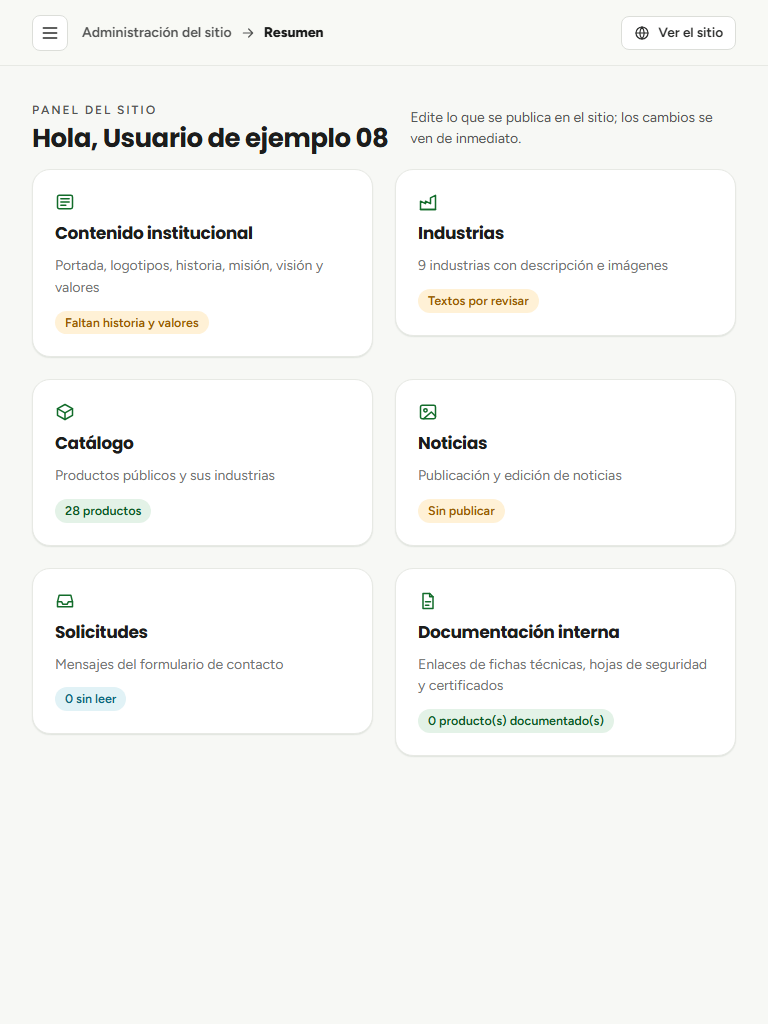
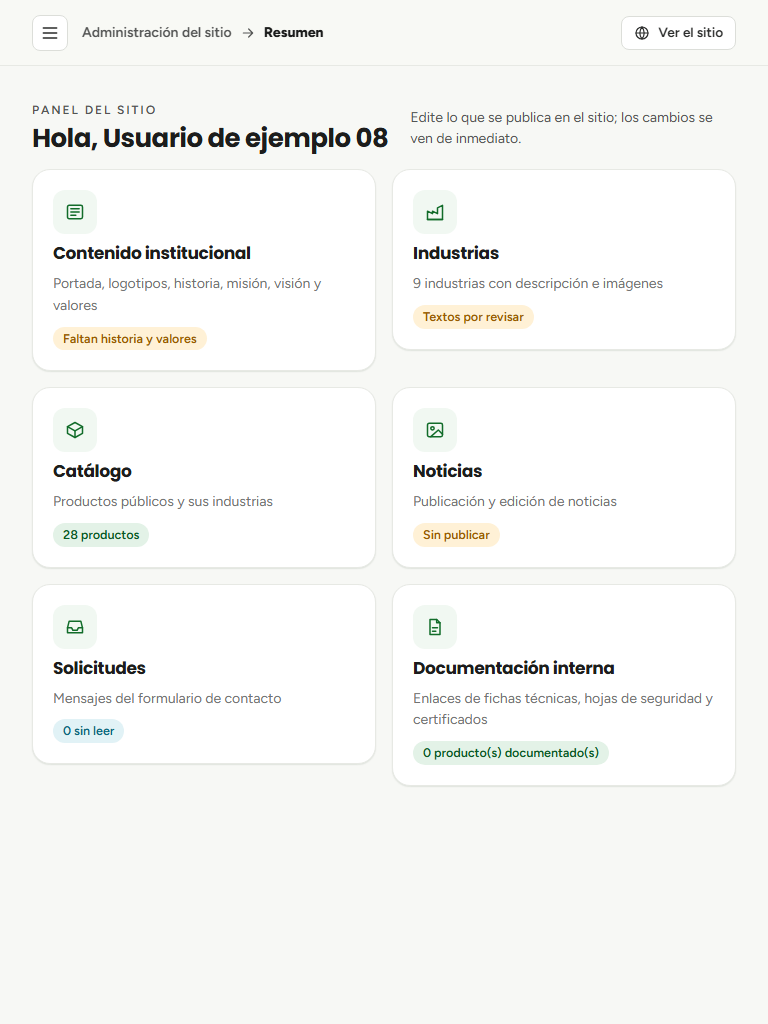
fix(panel): conservar estado publicado y aislar capturas (DM-04)

diff --git a/pruebas-e2e/panel/datos.ts b/pruebas-e2e/panel/datos.ts
@@ -1,0 +1,110 @@
+import { test as base } from "@playwright/test";
+import { Client } from "pg";
+import { unlink } from "node:fs/promises";
+import { join } from "node:path";
+
+try {
+  process.loadEnvFile();
+} catch {
+  /* La CI proporciona las variables. */
+}
+
+// Textos aprobados de specs/05 y de la semilla base; no dependen del estado previo del equipo.
+export const MISION =
+  "Ser el aliado estratégico para nuestros clientes y proveedores en la distribución de productos químicos, atendiendo la región CA-4, marcando la diferencia en servicio, con una completa gama de productos para brindar soluciones a las necesidades del mercado, apoyando a cumplir los objetivos de nuestros grupos de interés.";
+const VISION =
+  "Ser referentes y acercar soluciones en la distribución de productos químicos satisfaciendo las necesidades de los mercados atendidos, creando valor integral a nuestros grupos de interés a través del crecimiento y mejora continua, con una administración responsable y transparente enfocada en la solidez y el largo plazo.";
+const AREAS = ["portada", "mision", "vision", "historia"];
+
+/** Aísla únicamente el contenido institucional y siempre restaura las filas originales, incluso si falla la prueba. */
+async function conContenidoDePrueba(comprobar: () => Promise<void>) {
+  if (process.env.ALMACENAMIENTO && process.env.ALMACENAMIENTO !== "disco")
+    throw new Error("Las pruebas de panel requieren almacenamiento local de desarrollo.");
+  const conexion = new Client({ connectionString: process.env.DATABASE_URL });
+  await conexion.connect();
+  try {
+    // El mismo candado que las galerías de DM-02: los preparadores no se pisan entre procesos.
+    await conexion.query("SELECT pg_advisory_lock($1)", [2026101902]);
+    const configuracion = await conexion.query("SELECT * FROM configuracion_sitio");
+    const textos = await conexion.query("SELECT * FROM contenido_institucional");
+    const valores = await conexion.query("SELECT * FROM valor");
+    const imagenes = await conexion.query(
+      "SELECT * FROM imagen WHERE area = ANY($1) AND industria_id IS NULL AND producto_sitio_id IS NULL AND noticia_id IS NULL",
+      [AREAS],
+    );
+    try {
+      await conexion.query("BEGIN");
+      await conexion.query(
+        "DELETE FROM imagen WHERE area = ANY($1) AND industria_id IS NULL AND producto_sitio_id IS NULL AND noticia_id IS NULL",
+        [AREAS],
+      );
+      await conexion.query("DELETE FROM contenido_institucional");
+      await conexion.query(
+        "INSERT INTO contenido_institucional (seccion, texto) VALUES ('mision', $1), ('vision', $2), ('historia', '')",
+        [MISION, VISION],
+      );
+      await conexion.query(
+        "UPDATE configuracion_sitio SET logotipo_incovsa_url = NULL, logotipo_inquiserca_url = $1 WHERE id = 1",
+        ["/marca/inquiserca.webp"],
+      );
+      await conexion.query("UPDATE valor SET imagen_url = NULL");
+      await conexion.query("COMMIT");
+      await comprobar();
+    } finally {
+      // Las imágenes anteriores nunca se presentan al editor de prueba y por eso no se sustituyen ni se borran.
+      const nuevas = await conexion.query<{ url: string }>(
+        "SELECT url FROM imagen WHERE area = ANY($1) AND industria_id IS NULL AND producto_sitio_id IS NULL AND noticia_id IS NULL UNION SELECT imagen_url FROM valor WHERE imagen_url IS NOT NULL UNION SELECT logotipo_incovsa_url FROM configuracion_sitio WHERE logotipo_incovsa_url IS NOT NULL UNION SELECT logotipo_inquiserca_url FROM configuracion_sitio WHERE logotipo_inquiserca_url IS NOT NULL",
+        [AREAS],
+      );
+      await conexion.query("BEGIN");
+      try {
+        await conexion.query(
+          "DELETE FROM imagen WHERE area = ANY($1) AND industria_id IS NULL AND producto_sitio_id IS NULL AND noticia_id IS NULL",
+          [AREAS],
+        );
+        await conexion.query("INSERT INTO imagen SELECT * FROM json_populate_recordset(NULL::imagen, $1::json)", [
+          JSON.stringify(imagenes.rows),
+        ]);
+        await conexion.query("DELETE FROM contenido_institucional");
+        await conexion.query(
+          "INSERT INTO contenido_institucional SELECT * FROM json_populate_recordset(NULL::contenido_institucional, $1::json)",
+          [JSON.stringify(textos.rows)],
+        );
+        await conexion.query("DELETE FROM valor");
+        await conexion.query("INSERT INTO valor SELECT * FROM json_populate_recordset(NULL::valor, $1::json)", [
+          JSON.stringify(valores.rows),
+        ]);
+        await conexion.query("DELETE FROM configuracion_sitio");
+        await conexion.query(
+          "INSERT INTO configuracion_sitio SELECT * FROM json_populate_recordset(NULL::configuracion_sitio, $1::json)",
+          [JSON.stringify(configuracion.rows)],
+        );
+        await conexion.query("COMMIT");
+      } catch (error) {
+        await conexion.query("ROLLBACK");
+        throw error;
+      }
+      for (const { url } of nuevas.rows) {
+        if (!/^\/api\/imagenes\/[a-f0-9-]{36}\.webp$/.test(url)) continue;
+        await unlink(join(process.cwd(), "almacenamiento-local", "imagenes", url.slice("/api/imagenes/".length))).catch(
+          (error: NodeJS.ErrnoException) => {
+            if (error.code !== "ENOENT") throw error;
+          },
+        );
+      }
+    }
+  } finally {
+    await conexion.end();
+  }
+}
+
+export const test = base.extend<{ contenidoDePrueba: void }>({
+  contenidoDePrueba: [
+    async ({ baseURL }, use) => {
+      if (!baseURL || !["localhost", "127.0.0.1"].includes(new URL(baseURL).hostname))
+        throw new Error("Las pruebas del panel requieren una aplicación local de desarrollo.");
+      await conContenidoDePrueba(() => use());
+    },
+    { auto: true, timeout: 60_000 },
+  ],
+});

diff --git a/pruebas-e2e/panel/contenido.spec.ts b/pruebas-e2e/panel/contenido.spec.ts
@@ -1,4 +1,5 @@
-import { expect, test } from "@playwright/test";
+import { expect } from "@playwright/test";
+import { test, MISION } from "./datos";
 import AxeBuilder from "@axe-core/playwright";
 import sharp from "sharp";
 
@@ -33,6 +34,7 @@ test("RF-SW-23 / RNF-08: contenido institucional conserva bloques, borradores y 
   await expect(page.getByRole("heading", { name: "Imágenes del sitio", exact: true })).toHaveCount(0);
   const mision = page.getByRole("region", { name: "Misión", exact: true });
   const original = await mision.getByLabel("Texto", { exact: true }).inputValue();
+  expect(original).toBe(MISION);
   await mision.getByLabel("Texto", { exact: true }).fill("Borrador sin publicar");
   await page.waitForTimeout(5500);
   await expect(mision.getByLabel("Texto", { exact: true })).toHaveValue("Borrador sin publicar");
@@ -53,6 +55,11 @@ test("RF-SW-23 / RNF-08: contenido institucional conserva bloques, borradores y 
       ["serious", "critical"].includes(v.impact ?? ""),
     ),
   ).toEqual([]);
+  await mision.getByLabel("Texto", { exact: true }).evaluate((elemento) => {
+    elemento.scrollTop = 0;
+    elemento.blur();
+  });
+  await page.evaluate(() => window.scrollTo(0, 0));
   await info.attach("contenido-institucional", {
     body: await page.screenshot({ fullPage: true }),
     contentType: "image/png",
@@ -126,6 +133,8 @@ test("RF-SW-07: el resumen muestra estados y enlaces de las secciones permitidas
   const tarjetas = page.locator("main .mod-t");
   await expect(tarjetas).toHaveCount(6);
   await expect(tarjetas.first()).toContainText("Contenido institucional");
+  await expect(tarjetas.first().locator(".ic")).toHaveCSS("width", "44px");
+  await expect(tarjetas.first().locator(".ic")).toHaveCSS("border-radius", "12px");
   expect(
     (await new AxeBuilder({ page }).analyze()).violations.filter((v) =>
       ["serious", "critical"].includes(v.impact ?? ""),
@@ -136,6 +145,22 @@ test("RF-SW-07: el resumen muestra estados y enlaces de las secciones permitidas
     fullPage: true,
     path: `pruebas-e2e/panel/evidencias/aplicacion-resumen-${page.viewportSize()!.width}.png`,
   });
+});
+
+test("RF-SW-23: un borrador de portada o historia no cambia la etiqueta publicada", async ({ page }) => {
+  await page.goto("/panel/contenido");
+  for (const [nombre, inicial] of [
+    ["Portada", "Fotografía de la empresa"],
+    ["Historia", "Sin contenido"],
+  ]) {
+    const bloque = page.getByRole("region", { name: nombre, exact: true });
+    await expect(bloque.locator(".chip")).toHaveText(inicial!);
+    const color = await bloque.locator(".chip").getAttribute("class");
+    await bloque.getByLabel(`${nombre}: elegir imágenes`).setInputFiles("public/marca/foto-reunion.webp");
+    await expect(bloque.getByRole("img")).toHaveCount(1);
+    await expect(bloque.locator(".chip")).toHaveText(inicial!);
+    await expect(bloque.locator(".chip")).toHaveAttribute("class", color!);
+  }
 });
 
 test("RF-SW-23 / CU-07: publicar misión e imagen actualiza Inicio para una visita sin sesión", async ({

diff --git a/src/componentes/panel/EditorContenido.tsx b/src/componentes/panel/EditorContenido.tsx
@@ -26,6 +26,7 @@ function BloqueEditor({
   descripcion: string;
 }) {
   const [imagenes, ponerImagenes] = useState<Imagen[]>(iniciales);
+  const [publicado, ponerPublicado] = useState({ imagenes: iniciales, texto: textoInicial });
   const [ocupado, ponerOcupado] = useState(false);
   const bloqueo = useRef(false);
   const router = useRouter();
@@ -57,6 +58,7 @@ function BloqueEditor({
         return;
       }
       ponerImagenes(resultado.datos.imagenes);
+      ponerPublicado({ imagenes: resultado.datos.imagenes, texto: datos.texto });
       mensaje(`${nombresBloques[bloque]} publicado en el sitio.`);
       router.refresh();
     } catch {
@@ -66,7 +68,7 @@ function BloqueEditor({
       ponerOcupado(false);
     }
   }
-  const cargadas = imagenes.filter(Boolean).length;
+  const cargadas = publicado.imagenes.filter(Boolean).length;
   const estado =
     bloque === "valores"
       ? cargadas === 5
@@ -78,7 +80,7 @@ function BloqueEditor({
           : "El recibido"
         : bloque === "inquiserca"
           ? cargadas
-            ? imagenes[0] === "/marca/inquiserca.webp"
+            ? publicado.imagenes[0] === "/marca/inquiserca.webp"
               ? "El recibido"
               : "Cambiado"
             : "Sin logotipo"
@@ -86,7 +88,7 @@ function BloqueEditor({
             ? cargadas
               ? "Publicada"
               : "Fotografía de la empresa"
-            : textoInicial || cargadas
+            : publicado.texto || cargadas
               ? "Publicado"
               : "Sin contenido";
   return (
@@ -96,7 +98,11 @@ function BloqueEditor({
           <h3>{nombresBloques[bloque]}</h3>
           <p>{descripcion}</p>
         </div>
-        <span className={`chip ${cargadas || textoInicial ? "chip-v" : "chip-a"}`}>{estado}</span>
+        <span
+          className={`chip ${(bloque === "valores" ? cargadas === 5 : cargadas || publicado.texto) ? "chip-v" : "chip-a"}`}
+        >
+          {estado}
+        </span>
       </div>
       <form
         className={`${estilos.cuerpo} ${individual ? estilos.cuerpoIndividual : ""}`}

diff --git a/src/componentes/panel/contenido.module.css b/src/componentes/panel/contenido.module.css
@@ -128,8 +128,26 @@
 .resumen a {
   display: flex;
   flex-direction: column;
-  gap: 12px;
-  padding: 22px;
+  gap: 10px;
+  padding: 20px;
+}
+.resumen {
+  gap: 16px;
+}
+.resumen :global(.ic) {
+  width: 44px;
+  height: 44px;
+  border-radius: var(--r);
+  background: var(--v50);
+  color: var(--v600);
+  display: grid;
+  place-items: center;
+}
+.resumen a:hover {
+  border-color: var(--v300);
+  transform: translateY(-2px);
+  box-shadow: var(--s2);
+  color: var(--g800);
 }
 .resumen h3 {
   font-size: 17px;

diff --git a/pruebas-e2e/panel/evidencias/README.md b/pruebas-e2e/panel/evidencias/README.md
@@ -9,10 +9,11 @@ Se incorporó `develop` con DM-02 y se completaron las comprobaciones de publica
 - `node scripts/tareas.mjs --validar`: plan válido, 63 tareas.
 - `npm run verificar`: formato, lint y tipos correctos; 30 archivos y **279 pruebas aprobadas**.
 - `npm run build`: compilación de producción correcta, incluidas `/panel/contenido`, `/panel/resumen` y las rutas de imágenes.
-- `npm run e2e -- pruebas-e2e/panel/contenido.spec.ts --workers=1`: **18 pruebas propias** en 390, 768 y 1440 px. Cubren axe sin infracciones serias/críticas, permisos, borradores, arrastre vacío, carga real de 5 MB, publicación y eliminación física, misión con texto e imagen ordenados en Inicio para un visitante sin sesión y el logotipo subido en cabecera y pie. El archivo carga la configuración local sin mostrar sus valores.
-- `npm run e2e -- --workers=1`: **178 aprobadas y 2 omitidas por condiciones preexistentes de Facturación**, sin fallos. DM-04 no agrega omisiones. Las 18 pruebas propias pasan también dentro de esta ejecución completa.
+- `npm run e2e -- pruebas-e2e/panel/contenido.spec.ts --workers=1`: **21 pruebas propias** en 390, 768 y 1440 px. Cubren axe sin infracciones serias/críticas, permisos, borradores, arrastre vacío, carga real de 5 MB, publicación y eliminación física, misión con texto e imagen ordenados en Inicio para un visitante sin sesión y el logotipo subido en cabecera y pie. El archivo carga la configuración local sin mostrar sus valores.
+- `npm run e2e -- --workers=1 --retries=2`: **179 aprobadas directamente, 2 intermitentes aprobadas al reintentar y 2 omitidas por condiciones preexistentes de Facturación**, sin fallos definitivos. DM-04 no agrega omisiones. Las 21 pruebas propias pasan también dentro de esta ejecución completa.
 - `node scripts/archivos-protegidos.mjs InAlexa`: sin archivos protegidos no permitidos. El cambio local preexistente de `.codex/config.toml` permanece fuera de los commits.
 - En el avance del 19/10 se detectó un contraste insuficiente de Bodega. Ya quedó corregido por el coordinador en `develop`; la captura `incidencia-contraste-bodega.png` se conserva únicamente como evidencia histórica. DM-04 no cambia código ni pruebas de Bodega.
+- La repetición sin reintentos dio 178 aprobadas, 2 omisiones y 3 fallos en `picking/usuarios.spec.ts:116`, al medir contraste durante la aparición del modal. La comprobación aislada pasó sin modificarla. Se repitió la batería con los dos reintentos que ya contempla la configuración de CI, sin modificar código, pruebas ni estilos del picking.
 - Context7 consultado para sharp, file-type, S3, Zod, Next.js, Prisma, React, React Hook Form y Playwright. shadcn confirmó el registro `@shadcn`; next-devtools reconoció el servidor en el puerto 3000 y confirmó ausencia de errores en las consultas realizadas.
 
 ## Pruebas primero y revisión independiente
@@ -32,7 +33,9 @@ La revisión independiente siguió `plan/prompts/revision.md`. Encontró que un 
 | Misión publicada en Inicio | [Captura](publicacion-inicio-390.png) | [Captura](publicacion-inicio-768.png) | [Captura](publicacion-inicio-1440.png) |
 | Logotipo publicado en el sitio | [Captura](logotipo-publico-390.png) | [Captura](logotipo-publico-768.png) | [Captura](logotipo-publico-1440.png) |
 
-Se conservan bloques, orden, textos funcionales, estados, galerías y colores del sistema de diseño. Las imágenes y textos de prueba pueden diferir. Se excluyen las notas P-xx y el botón Demostración conforme a `specs/20`. El resumen usa `/panel/resumen` y se conserva la redirección de `/panel`, según la precisión de JG-07 en `specs/05`.
+Se conservan bloques, orden, textos funcionales, estados, galerías y colores del sistema de diseño. Las capturas del panel usan misión y visión aprobadas, historia y galerías vacías y logotipos originales. La preparación de `datos.ts` guarda y restaura las filas anteriores incluso al fallar una prueba, usa el mismo candado que DM-02 y elimina únicamente los archivos nuevos locales. No reinicia la base. Se excluyen las notas P-xx y el botón Demostración conforme a `specs/20`. El resumen usa `/panel/resumen` y se conserva la redirección de `/panel`, según la precisión de JG-07 en `specs/05`.
+
+La revisión del PR detectó etiquetas que cambiaban al elegir un borrador, capturas con datos de pruebas anteriores y la falta del recuadro de los iconos del resumen. Se separó el estado publicado del borrador, se aislaron los datos y se reprodujeron los recuadros de 44 × 44 px del prototipo. Las nuevas comprobaciones fallaron primero por la etiqueta y el ancho del icono y pasaron después de corregirlos. Se repitió la revisión independiente sin hallazgos pendientes.
 
 ## Uso y límites
 

diff --git a/plan/tareas/DM-04-panel-contenido-institucional.md b/plan/tareas/DM-04-panel-contenido-institucional.md
@@ -89,5 +89,6 @@ Se completó el 20/10/2026 después de incorporar `develop` con DM-02 y la corre
 - **Integración pública:** se conservan `leerEstructuraSitio()` y `leerInicioSitio()` de DM-02. El contrato público añade `logotipoInquiserca: string | null`; quitarlo devuelve `null` y recuperarlo devuelve el original. Las pruebas verifican misión e imagen en Inicio sin sesión y sustitución del logotipo en cabecera y pie.
 - **Alcance autorizado:** la usuaria autorizó cerrar DM-04 comprobando Inquiserca en la base y en el contrato público. Su comprobación visual en Quiénes somos queda expresamente para DM-06, cuya pantalla aún no existe. No se implementó DM-06 ni se cambiaron requisitos de producto.
 - **Cómo reutilizarlo:** DM-05 y DM-07 pueden usar `guardarImagen` y `borrarImagen` después de autorizar su permiso; `CampoGaleria` trabaja con `string | File` y no publica por sí solo. Sus operaciones deben validar propietario y límite de cinco imágenes. DM-06 debe consumir `logotipoInquiserca` y comprobar que `null` elimina el logotipo y su alternancia.
-- **Verificación:** `npm run verificar` pasó formato, lint, tipos y **279 pruebas en 30 archivos**. `npm run build` pasó. Las **18 pruebas propias de Playwright** pasaron en 390, 768 y 1440 px, con axe, carga real de 5 MB, persistencia, limpieza física y publicación pública. La suite completa aprobó **178 pruebas**, con **2 omisiones preexistentes de Facturación** y sin fallos. Plan válido: 63 tareas; sin archivos protegidos no permitidos para InAlexa. Revisión independiente: **LISTO**, sin hallazgos pendientes.
+- **Verificación:** `npm run verificar` pasó formato, lint, tipos y **279 pruebas en 30 archivos**. `npm run build` pasó. Las **21 pruebas propias de Playwright** pasaron en 390, 768 y 1440 px, con axe, carga real de 5 MB, persistencia, limpieza física y publicación pública. La suite completa terminó con código 0: **179 aprobadas directamente, 2 intermitentes aprobadas al reintentar y 2 omisiones preexistentes de Facturación** y sin fallos definitivos. Plan válido: 63 tareas; sin archivos protegidos no permitidos para InAlexa. Revisión independiente: **LISTO**, sin hallazgos pendientes.
 - **Evidencia:** [verificación, capturas e interfaces](../../pruebas-e2e/panel/evidencias/README.md) y [revisión en contexto limpio](../../pruebas-e2e/panel/evidencias/revision.md). No se agregaron dependencias, migraciones ni credenciales de servicios externos. La configuración de producción de R2 sigue siendo CE-05/P-94.
+- **Correcciones del PR:** las etiquetas reflejan el contenido publicado hasta guardar, aunque se elijan imágenes nuevas; el resumen reproduce los recuadros de sus iconos. Las pruebas aíslan y restauran el contenido institucional para tomar capturas con los textos aprobados sin alterar los datos anteriores del equipo. Se añadieron comprobaciones de regresión y se repitió la revisión independiente.

diff --git a/plan/bitacora/daniela.md b/plan/bitacora/daniela.md
@@ -35,8 +35,9 @@ Los avisos para otra persona van en su propia línea y empiezan en negrita con a
 
 ## 2026-10-20 · DM-04 · Panel: almacenamiento de imágenes, resumen y contenido institucional
 
-- Hecho: se incorporó `develop` con DM-02, se combinaron las lecturas públicas y la edición del panel, y se completaron las verificaciones de publicación en Inicio, cabecera y pie. Al quitar o recuperar Inquiserca también cambia el contrato público. Verificación: 279 pruebas de integración; formato, lint, tipos y compilación correctos; 18 E2E propias en tres tamaños; suite completa con 178 aprobadas, dos omisiones preexistentes y sin fallos. Revisión independiente LISTO. Evidencia en `pruebas-e2e/panel/evidencias/README.md`.
+- Hecho: se incorporó `develop` con DM-02, se combinaron las lecturas públicas y la edición del panel, y se completaron las verificaciones de publicación en Inicio, cabecera y pie. Al quitar o recuperar Inquiserca también cambia el contrato público. Verificación: 279 pruebas de integración; formato, lint, tipos y compilación correctos; 21 E2E propias en tres tamaños; suite completa con código 0, 179 aprobadas directamente, dos intermitentes aprobadas al reintentar y dos omisiones preexistentes y sin fallos definitivos. Revisión independiente LISTO. Evidencia en `pruebas-e2e/panel/evidencias/README.md`.
 - Decisiones: se mantiene `/panel/resumen`, según JG-07. La usuaria autorizó verificar Inquiserca en base/contrato público y dejar su comprobación visual para DM-06. Sin dependencias nuevas ni archivos protegidos; `.codex/config.toml` permanece fuera de los commits. La incidencia de Bodega del avance quedó resuelta por el coordinador en `develop`.
 - Pendiente o aviso para otros:
   - **DM-05:** usar `CampoGaleria` y el módulo de almacenamiento; autorizar el permiso del módulo y validar el dueño de cada imagen antes de conservarla o borrarla. El límite del servidor sigue siendo cinco por galería.
   - **DM-06:** `leerEstructuraSitio()` expone `logotipoInquiserca: string | null`. Comprobar visualmente en Quiénes somos que quitarlo desde el panel elimina el logotipo y su alternancia; esta comprobación quedó asignada a DM-06 por autorización expresa de Daniela al cerrar DM-04.
+  - **Josué:** `pruebas-e2e/picking/usuarios.spec.ts:116` mide contraste mientras aparece el modal. Falló en los tres tamaños sin reintentos; en la repetición completa pasó en escritorio y en el primer reintento en teléfono y tableta. La suite terminó con código 0, pero esas dos comprobaciones quedaron intermitentes. No se modificaron código, estilos ni pruebas del picking.

diff --git a/pruebas-e2e/panel/evidencias/revision.md b/pruebas-e2e/panel/evidencias/revision.md
@@ -14,3 +14,7 @@ VEREDICTO: LISTO
 ```
 
 La revisión anterior del avance encontró que un arrastre vacío podía eliminar un logotipo; se corrigió y se conserva su prueba automatizada. Las notas amarillas P-xx no se trasladan a la aplicación, conforme a specs/20.
+
+## Correcciones de la revisión del PR
+
+Un segundo revisor en contexto limpio comprobó la separación entre borrador y estado publicado, los recuadros de los iconos del resumen y el aislamiento reversible de las pruebas. Verificó que se conserva el mismo candado de DM-02, que se restauran las filas originales y que solo se eliminan las imágenes locales nuevas. No encontró hallazgos obligatorios ni opcionales: **LISTO**.
